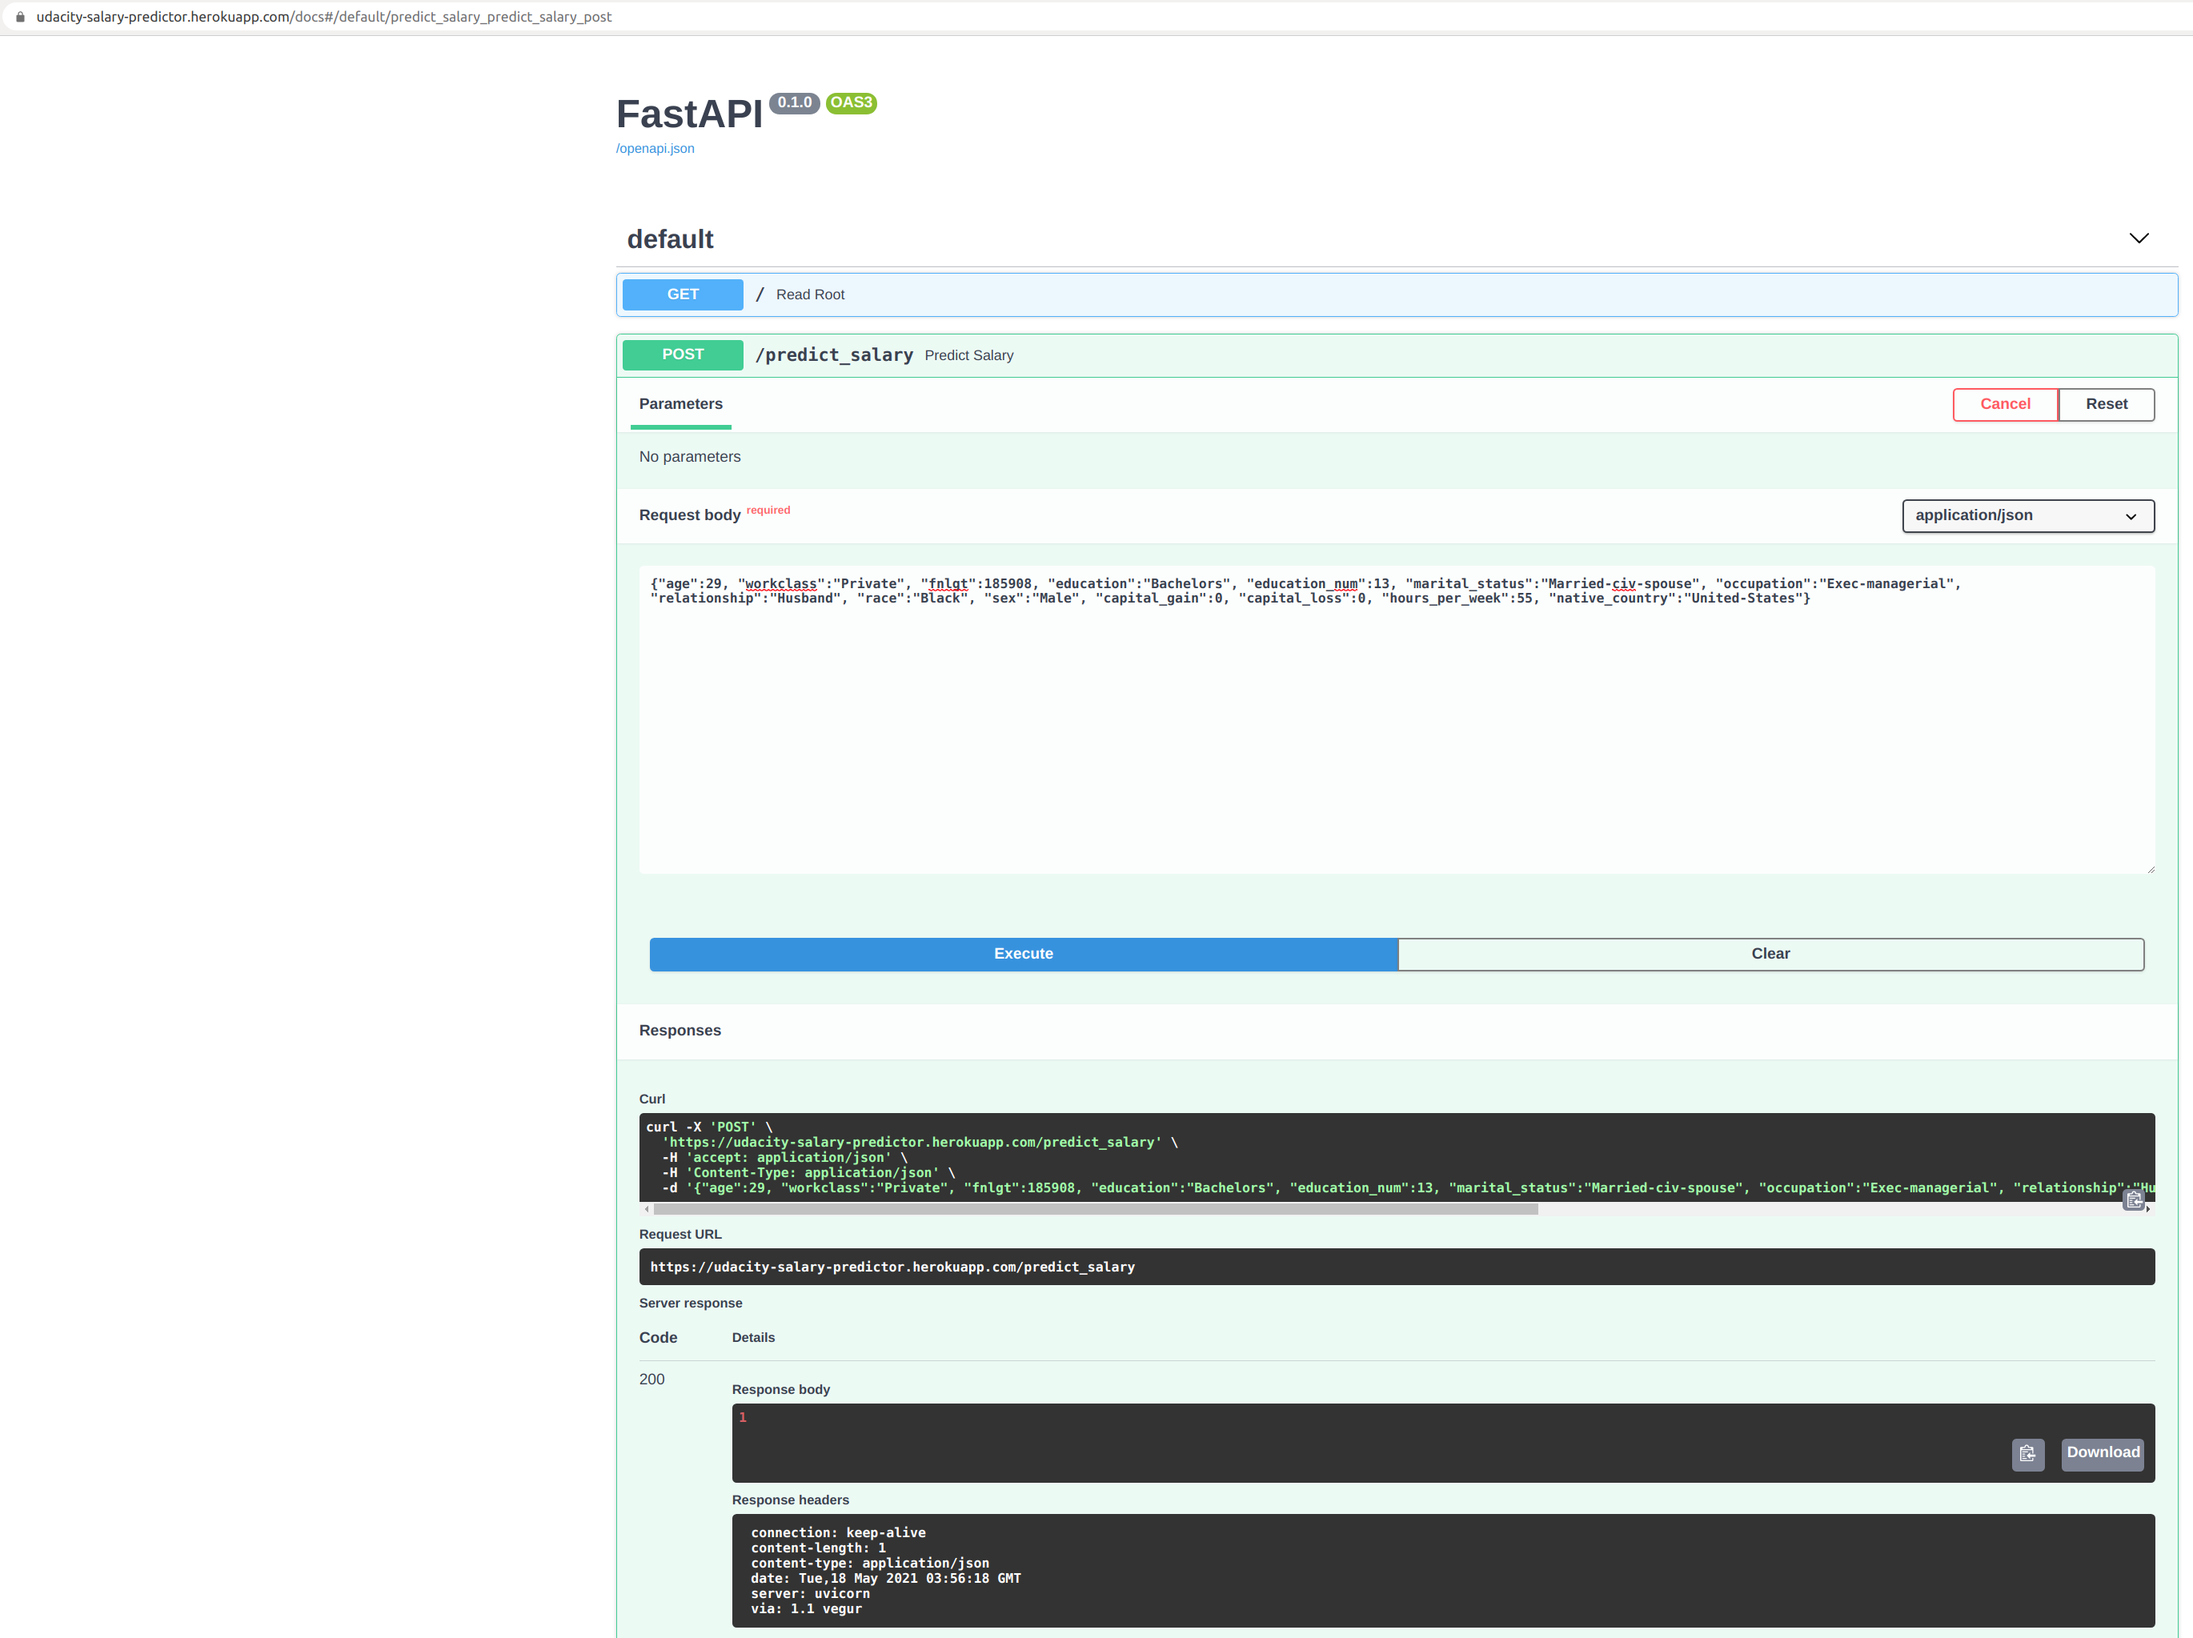
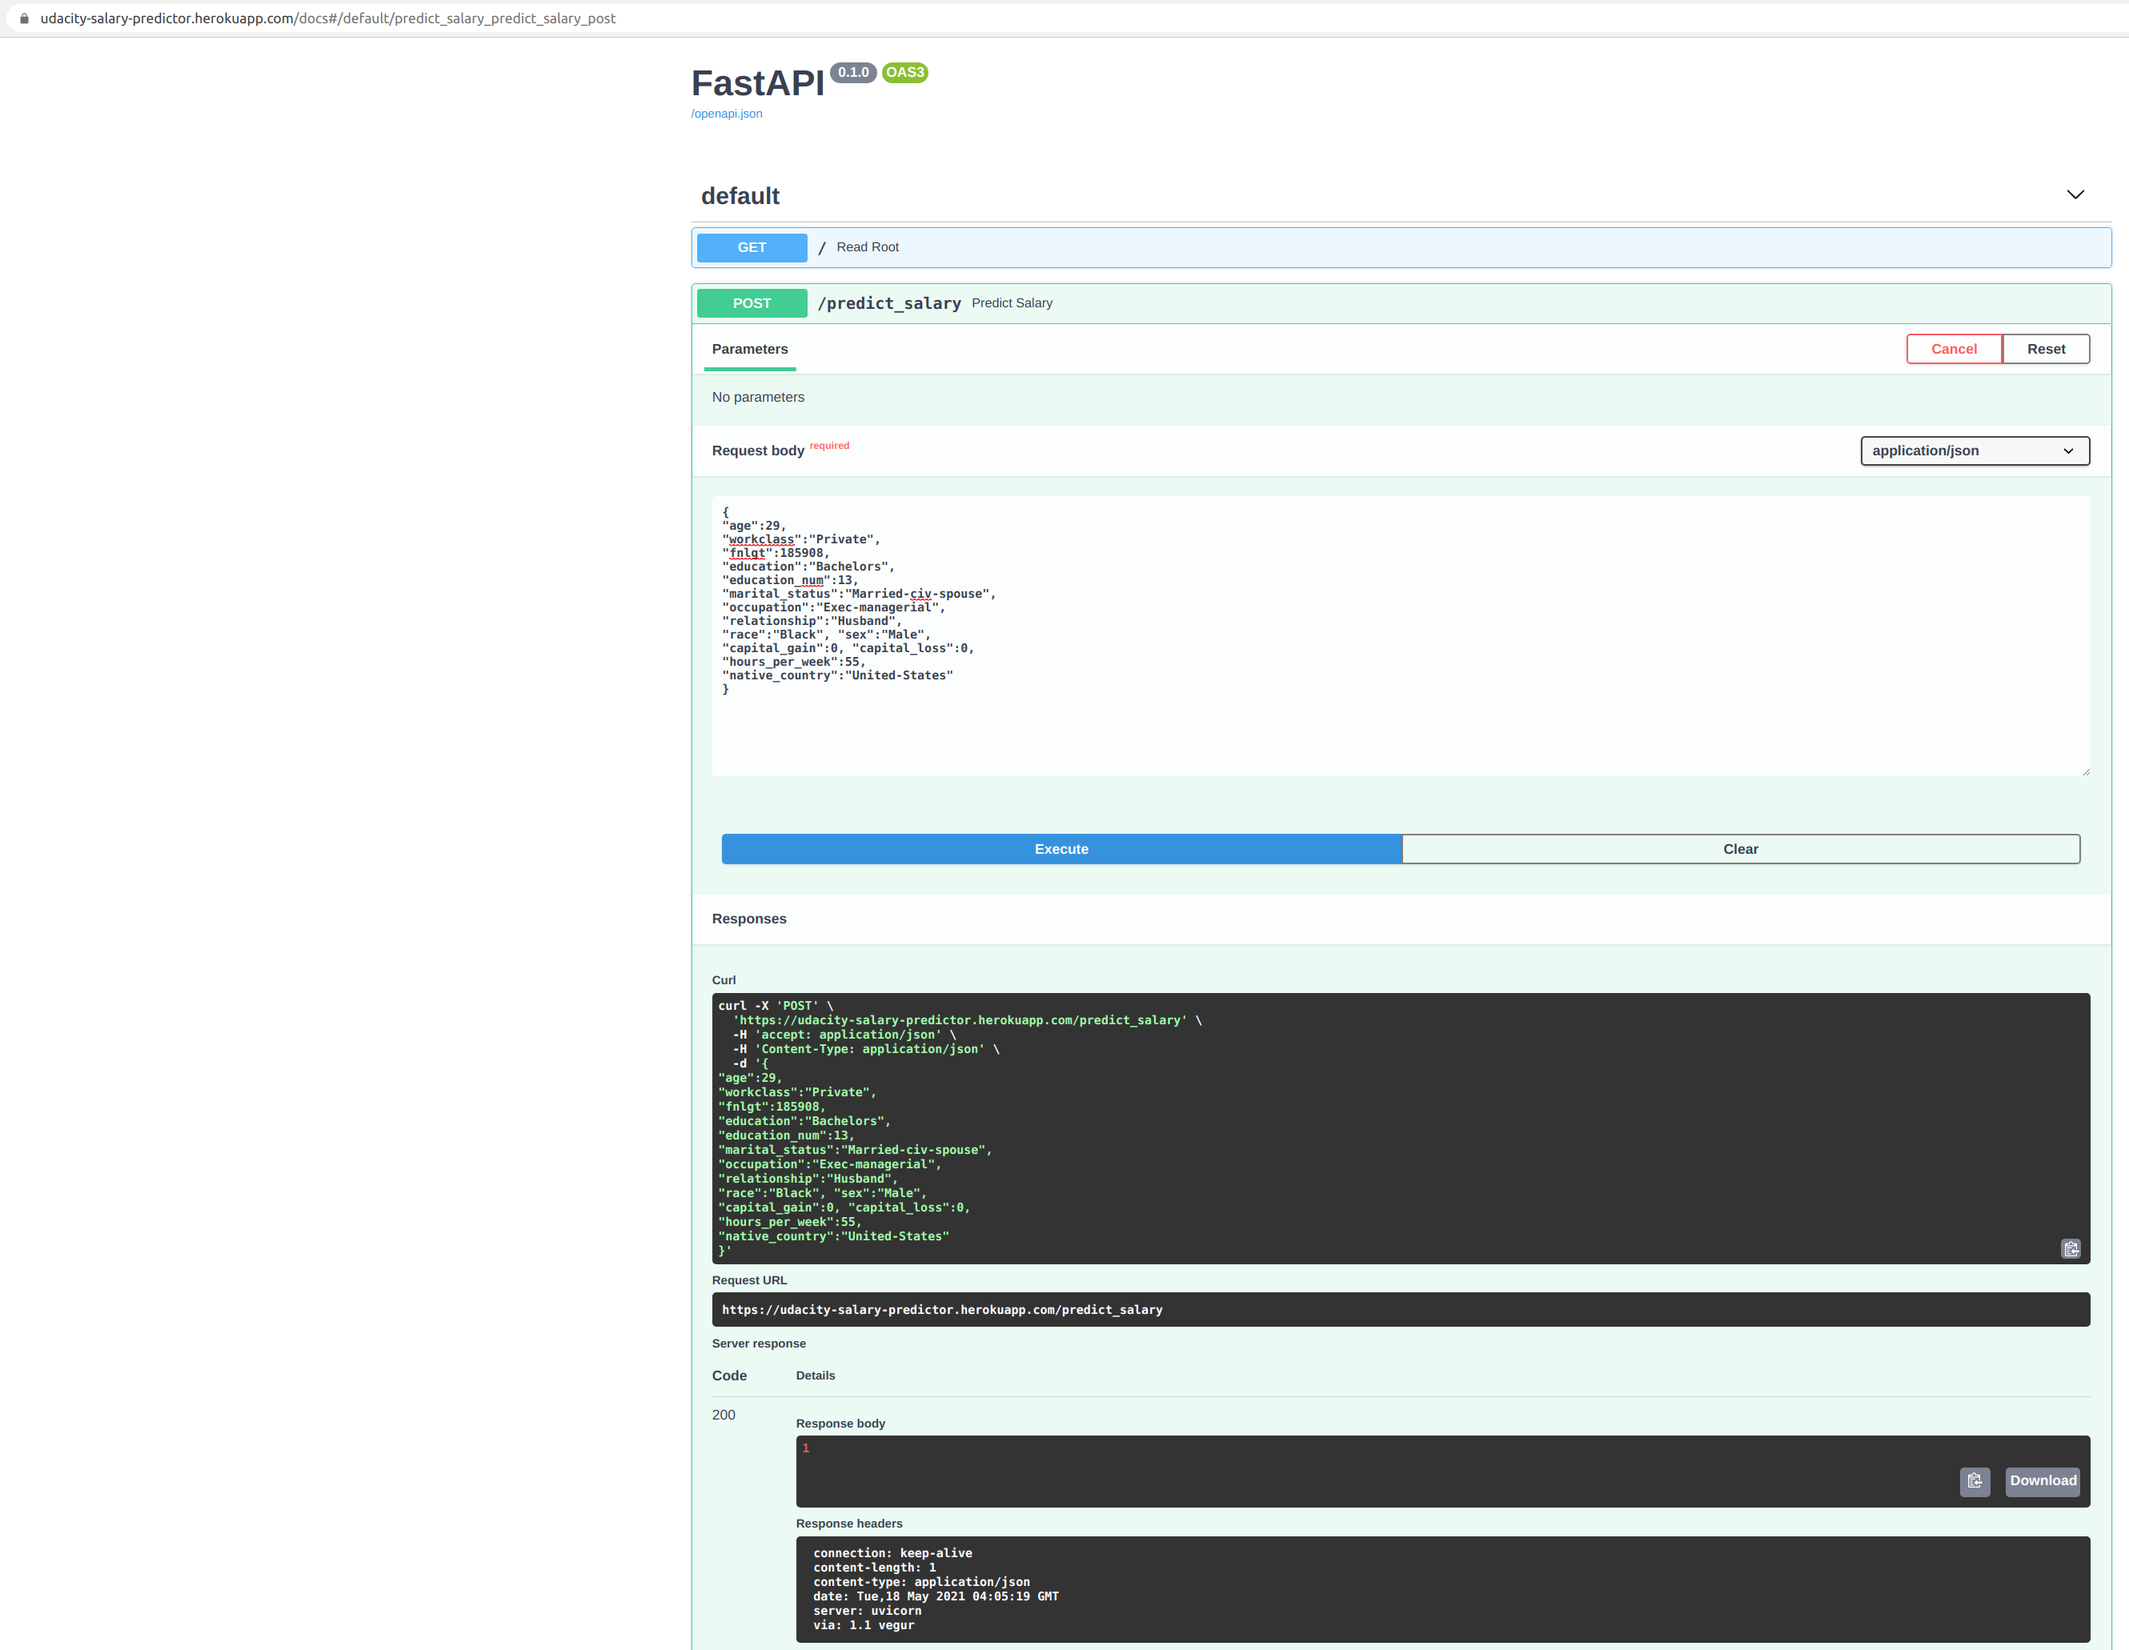
Second commit.

diff --git a/README.md b/README.md
@@ -23,10 +23,23 @@ In other words, this website will return a greeting message: Hello world.
 You can visit the link https://udacity-salary-predictor.herokuapp.com/docs
 in which the web app is deployed.
 
-You can test the POST `` with the following parameters:
+You can test the POST `` with the following request body:
 
 ```
-{"age":29, "workclass":"Private", "fnlgt":185908, "education":"Bachelors", "education_num":13, "marital_status":"Married-civ-spouse", "occupation":"Exec-managerial", "relationship":"Husband", "race":"Black", "sex":"Male", "capital_gain":0, "capital_loss":0, "hours_per_week":55, "native_country":"United-States"}
+{
+"age":29, 
+"workclass":"Private", 
+"fnlgt":185908, 
+"education":"Bachelors", 
+"education_num":13, 
+"marital_status":"Married-civ-spouse", 
+"occupation":"Exec-managerial", 
+"relationship":"Husband", 
+"race":"Black", "sex":"Male", 
+"capital_gain":0, "capital_loss":0, 
+"hours_per_week":55, 
+"native_country":"United-States"
+}
 ```
 
 And the result will be:
